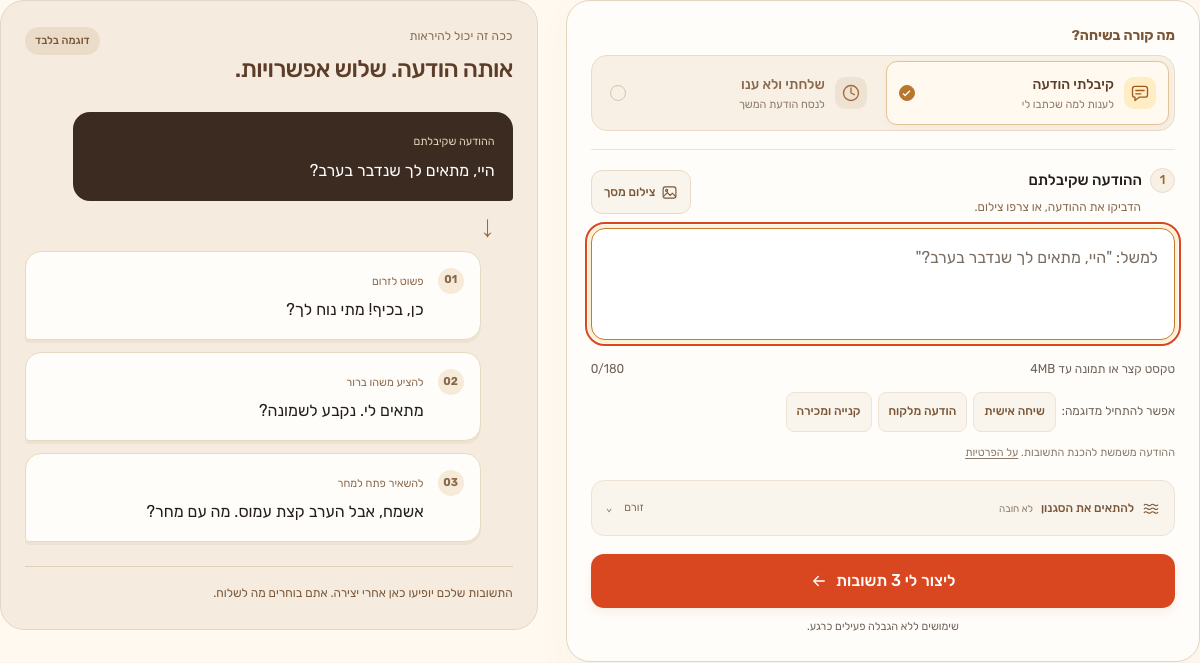
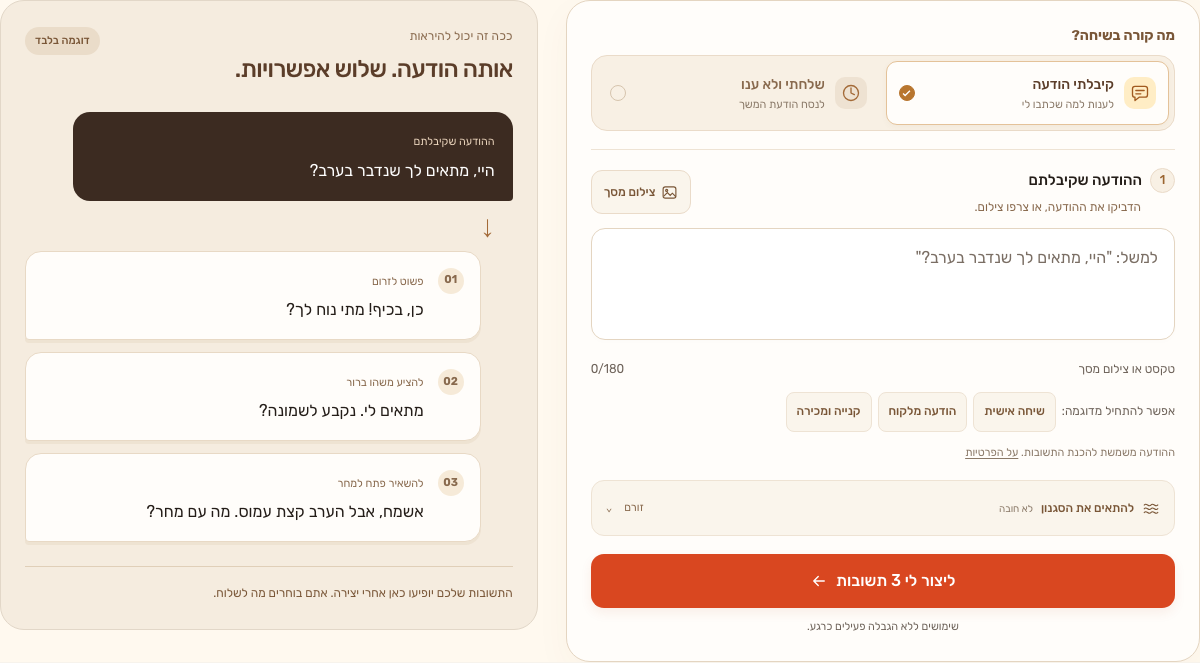
Automatically compress heavy screenshot uploads before generation

Changed region(s): [[0.4625, 0.3318, 0.9867, 0.5732]]

diff --git a/app/home-page-client.tsx b/app/home-page-client.tsx
@@ -16,6 +16,7 @@ import Image from 'next/image';
 import { AccountDialog, ConversationDemo, ConversationGuide, ConversationHeader } from '@/components/conversation-experience';
 import './conversation-experience.css';
 import { DurationIcon } from '@/components/duration-icon';
+import { prepareScreenshot } from '@/lib/prepare-screenshot';
 import {
   ConversationMemoryDialog,
   ManageConversationsDialog,
@@ -169,7 +170,6 @@ type CouponRedeemResponse = {
 
 const FREE_LIMIT = 3;
 const GENERATOR_FLOW_VERSION = 'direction_v3' as const;
-const MAX_IMAGE_UPLOAD_BYTES = 4 * 1024 * 1024;
 const MIN_LOADING_DISPLAY_MS = 200;
 const AUTH_EMAIL_STORAGE_KEY = 'sayback.auth.email';
 const AUTH_EMAIL_INTENT_STORAGE_KEY = 'sayback.auth.intent';
@@ -500,23 +500,6 @@ function getFocusableElements(container: HTMLElement | null) {
   });
 }
 
-function fileToBase64(file: File) {
-  return new Promise<string>((resolve, reject) => {
-    const reader = new FileReader();
-
-    reader.onload = () => {
-      if (typeof reader.result !== 'string') {
-        reject(new Error('טעינת התמונה נכשלה'));
-        return;
-      }
-
-      resolve(reader.result);
-    };
-
-    reader.onerror = () => reject(new Error('טעינת התמונה נכשלה'));
-    reader.readAsDataURL(file);
-  });
-}
 
 function isCompactViewport() {
   return window.matchMedia('(max-width: 1023px)').matches;
@@ -1997,6 +1980,7 @@ export default function Home({
   const [goal, setGoal] = useState<Goal | null>(null);
   const [continuePreference, setContinuePreference] = useState<ContinuePreference | null>(null);
   const [imageBase64, setImageBase64] = useState<string | null>(null);
+  const [isImageProcessing, setIsImageProcessing] = useState(false);
   const [imageName, setImageName] = useState<string | null>(null);
   const [imageError, setImageError] = useState<string | null>(null);
   const [showDeepLinkPrefillBanner, setShowDeepLinkPrefillBanner] = useState(false);
@@ -2101,7 +2085,9 @@ export default function Home({
   )?.label ?? `${noReplyDurationValue} ${selectedDurationUnitLabel}`;
   const isNoReplyReady =
     Boolean(trimmedLastOutgoingMessage) && hasValidNoReplyDuration && hasNoReplyDurationUnit;
-  const generateButtonLabel = isLoading
+  const generateButtonLabel = isImageProcessing && !isNoReplyMode
+    ? 'מכינים את התמונה…'
+    : isLoading
     ? 'מכינים 3 תשובות...'
     : isNoReplyMode
       ? 'ליצור לי 3 הודעות המשך'
@@ -2215,10 +2201,12 @@ export default function Home({
       return;
     }
 
+    imageRequests.invalidate();
+    setIsImageProcessing(false);
     setImageBase64(null);
     setImageName(null);
     setImageError(null);
-  }, [composeMode]);
+  }, [composeMode, imageRequests]);
 
   useEffect(() => {
     if (!isSessionReady || isBillingLoading || hasTrackedQuotaBadgeViewRef.current) {
@@ -4115,7 +4103,7 @@ export default function Home({
   }
 
   async function handleMainSubmit() {
-    if (isGenerating) return;
+    if (isGenerating || (isImageProcessing && !isNoReplyMode)) return;
     const draft = getDraftRequest();
     const trimmedMessage = draft.message;
     const trimmedLastOutgoingMessage = draft.lastOutgoingMessage ?? '';
@@ -4224,6 +4212,7 @@ export default function Home({
     }
 
     const request = imageRequests.begin();
+    setIsImageProcessing(false);
 
     if (!file.type.startsWith('image/')) {
       setImageError('אפשר להעלות רק קובצי תמונה.');
@@ -4233,16 +4222,13 @@ export default function Home({
       return;
     }
 
-    if (file.size > MAX_IMAGE_UPLOAD_BYTES) {
-      setImageError('התמונה גדולה מדי. אפשר להעלות עד 4MB.');
-      setImageBase64(null);
-      setImageName(null);
-      event.target.value = '';
-      return;
-    }
+    setIsImageProcessing(true);
+    setImageBase64(null);
+    setImageName(null);
+    setImageError(null);
 
     try {
-      const nextImageBase64 = await fileToBase64(file);
+      const nextImageBase64 = await prepareScreenshot(file, request.signal);
       if (!request.isCurrent()) return;
       setImageBase64(nextImageBase64);
       setImageName(file.name);
@@ -4257,11 +4243,14 @@ export default function Home({
       setImageError(error instanceof Error ? error.message : 'טעינת התמונה נכשלה');
       setImageBase64(null);
       setImageName(null);
+    } finally {
+      if (request.isCurrent()) setIsImageProcessing(false);
     }
   }
 
   function clearImage() {
     imageRequests.invalidate();
+    setIsImageProcessing(false);
     setImageBase64(null);
     setImageName(null);
     setImageError(null);
@@ -4955,7 +4944,7 @@ export default function Home({
                     className={`sb-message-input min-h-28 w-full resize-none rounded-[22px] rounded-bl-[14px] border border-[#ded2c3] bg-white px-4 py-3 text-base leading-7 font-medium text-[#241d18] outline-none transition placeholder:text-[#9b8f83] focus:bg-[#fffdfa] sm:min-h-40 sm:py-4 ${lightSurfaceFocusClass}`}
                   />
                   <div className="sb-input-footer" id="incoming-message-help">
-                    <span>טקסט קצר או תמונה עד 4MB</span>
+                    <span>טקסט או צילום מסך</span>
                     <span dir="ltr">{messageLength}/{MAX_INCOMING_MESSAGE_LENGTH}</span>
                   </div>
                   {!message.trim() && !imageBase64 ? (
@@ -4975,6 +4964,7 @@ export default function Home({
                     className="hidden"
                   />
 
+                  {isImageProcessing ? <p className="sb-status" role="status">מכינים את התמונה… <button type="button" onClick={clearImage} className="min-h-11 px-2 underline underline-offset-2">ביטול</button></p> : null}
                   {imageName && imageBase64 ? (
                     <div className="flex items-center gap-3 rounded-xl border border-[#ded2c3] p-3">
                       <Image src={imageBase64} alt="תצוגה מקדימה של צילום המסך" width={72} height={88} unoptimized className="h-22 w-18 shrink-0 rounded-lg object-contain" />
@@ -5053,7 +5043,7 @@ export default function Home({
                 <button
                   type="button"
                   onClick={handleMainSubmit}
-                  disabled={isGenerating}
+                  disabled={isGenerating || (isImageProcessing && !isNoReplyMode)}
                   data-incomplete={(isNoReplyMode && !isNoReplyReady) || undefined}
                   className={`sb-primary-button inline-flex min-h-[56px] w-full items-center justify-center gap-2 rounded-full bg-[#ff5a2a] px-5 py-3 text-base font-semibold text-white shadow-[0_14px_26px_rgba(255,90,42,0.24)] transition duration-150 hover:bg-[#f04d1f] active:translate-y-0 disabled:cursor-not-allowed disabled:opacity-60 ${lightSurfaceFocusClass}`}
                 >

diff --git a/lib/prepare-screenshot.ts b/lib/prepare-screenshot.ts
@@ -1,0 +1,108 @@
+/** Leave room for JSON below the hosting platform's request-body limit. */
+export const MAX_SCREENSHOT_DATA_URL_LENGTH = 4 * 1024 * 1024;
+const MAX_ENCODED_BYTES = Math.floor((MAX_SCREENSHOT_DATA_URL_LENGTH - 64) * 3 / 4);
+const MAX_CANVAS_PIXELS = 8_000_000;
+const MAX_CANVAS_EDGE = 8192;
+const SUPPORTED_TYPES = new Set(['image/jpeg', 'image/png', 'image/webp']);
+
+class ScreenshotPreparationError extends Error {}
+
+function checkCancelled(signal?: AbortSignal) {
+  if (signal?.aborted) throw new DOMException('Image processing cancelled', 'AbortError');
+}
+
+function readDataUrl(blob: Blob, signal?: AbortSignal): Promise<string> {
+  checkCancelled(signal);
+  return new Promise((resolve, reject) => {
+    const reader = new FileReader();
+    const abort = () => reader.abort();
+    const cleanup = () => signal?.removeEventListener('abort', abort);
+    signal?.addEventListener('abort', abort, { once: true });
+    reader.onload = () => {
+      cleanup();
+      if (typeof reader.result === 'string') resolve(reader.result);
+      else reject(new ScreenshotPreparationError('לא הצלחנו להכין את התמונה. נסו שוב.'));
+    };
+    reader.onerror = () => { cleanup(); reject(new ScreenshotPreparationError('לא הצלחנו לקרוא את התמונה. נסו צילום אחר.')); };
+    reader.onabort = () => { cleanup(); reject(new DOMException('Image processing cancelled', 'AbortError')); };
+    reader.readAsDataURL(blob);
+  });
+}
+
+async function decodeImage(file: File, signal?: AbortSignal): Promise<HTMLImageElement> {
+  checkCancelled(signal);
+  const url = URL.createObjectURL(file);
+  try {
+    return await new Promise((resolve, reject) => {
+      const image = new Image();
+      const cleanup = () => { image.onload = null; image.onerror = null; signal?.removeEventListener('abort', abort); };
+      const abort = () => { cleanup(); image.src = ''; reject(new DOMException('Image processing cancelled', 'AbortError')); };
+      image.onload = () => {
+        cleanup();
+        if (image.naturalWidth && image.naturalHeight) resolve(image);
+        else reject(new ScreenshotPreparationError('התמונה לא נפתחה. נסו צילום אחר.'));
+      };
+      image.onerror = () => { cleanup(); reject(new ScreenshotPreparationError('לא הצלחנו לפתוח את התמונה. נסו לשמור אותה כצילום מסך.')); };
+      signal?.addEventListener('abort', abort, { once: true });
+      image.src = url;
+    });
+  } finally {
+    URL.revokeObjectURL(url);
+  }
+}
+
+async function prepareScreenshotImage(file: File, signal?: AbortSignal): Promise<string> {
+  checkCancelled(signal);
+  if (!file.type.startsWith('image/')) throw new ScreenshotPreparationError('אפשר להעלות רק קובצי תמונה.');
+  // Preserve small supported originals, especially crisp PNG text.
+  if (SUPPORTED_TYPES.has(file.type) && file.size <= MAX_ENCODED_BYTES) {
+    return readDataUrl(file, signal);
+  }
+
+  const image = await decodeImage(file, signal);
+  const canvas = document.createElement('canvas');
+  try {
+    checkCancelled(signal);
+    const context = canvas.getContext('2d');
+    if (!context) throw new ScreenshotPreparationError('לא הצלחנו להכין את התמונה בדפדפן. נסו שוב.');
+    const scale = Math.min(1, MAX_CANVAS_EDGE / Math.max(image.naturalWidth, image.naturalHeight), Math.sqrt(MAX_CANVAS_PIXELS / (image.naturalWidth * image.naturalHeight)));
+    let width = Math.max(1, Math.floor(image.naturalWidth * scale));
+    let height = Math.max(1, Math.floor(image.naturalHeight * scale));
+
+    for (;;) {
+      checkCancelled(signal);
+      canvas.width = width;
+      canvas.height = height;
+      context.imageSmoothingEnabled = true;
+      context.imageSmoothingQuality = 'high';
+      context.fillStyle = '#fff';
+      context.fillRect(0, 0, width, height);
+      context.drawImage(image, 0, 0, width, height);
+      for (const quality of [0.9, 0.78, 0.64, 0.5]) {
+        checkCancelled(signal);
+        const blob = await new Promise<Blob>((resolve, reject) => {
+          canvas.toBlob((result) => result ? resolve(result) : reject(new ScreenshotPreparationError('לא הצלחנו לצמצם את התמונה. נסו צילום אחר.')), 'image/jpeg', quality);
+        });
+        checkCancelled(signal);
+        if (blob.size <= MAX_ENCODED_BYTES) return await readDataUrl(blob, signal);
+      }
+      if (width === 1 && height === 1) throw new ScreenshotPreparationError('לא הצלחנו להכין את התמונה. נסו צילום אחר.');
+      width = Math.max(1, Math.floor(width * 0.75));
+      height = Math.max(1, Math.floor(height * 0.75));
+    }
+  } finally {
+    // Release the canvas backing store promptly on phones, including cancellation.
+    canvas.width = 0;
+    canvas.height = 0;
+    image.src = '';
+  }
+}
+
+export async function prepareScreenshot(file: File, signal?: AbortSignal): Promise<string> {
+  try {
+    return await prepareScreenshotImage(file, signal);
+  } catch (error) {
+    if (error instanceof ScreenshotPreparationError || (error instanceof DOMException && error.name === 'AbortError')) throw error;
+    throw new ScreenshotPreparationError('לא הצלחנו להכין את התמונה. נסו צילום אחר.');
+  }
+}

diff --git a/components/conversation-experience.tsx b/components/conversation-experience.tsx
@@ -126,7 +126,7 @@ export function ConversationGuide({ billingBypassEnabled = false }: { billingByp
         </details>
         <details>
           <summary>אפשר לצרף צילום מסך?</summary>
-          <p>כן. אפשר לבחור צילום מסך של השיחה במקום להקליד את ההודעה. גודל התמונה צריך להיות עד 4MB. כדאי לבדוק שהטקסט ברור ושהצילום כולל את ההודעה שרוצים לענות עליה.</p>
+          <p>כן. אפשר לבחור צילום מסך של השיחה במקום להקליד את ההודעה. תמונות כבדות מצטמצמות אוטומטית לפני השליחה. כדאי לבדוק שהטקסט ברור ושהצילום כולל את ההודעה שרוצים לענות עליה.</p>
         </details>
         <details>
           <summary>כמה שימושים מקבלים?</summary>

diff --git a/README.md b/README.md
@@ -34,6 +34,7 @@ SayBack is a live, Hebrew-first web app for personal conversations, customer mes
 - **Get Hebrew phrasing right.** Choose how replies refer to you and the recipient. Your own grammatical preference is remembered in this browser; the recipient's is temporary.
 - **Refine without starting over.** Soften, sharpen, regenerate, or supply a custom rewriting instruction. Editing the incoming request marks older results as outdated.
 - **Follow up when there is no answer.** Switch to **שלחתי ולא ענו**, add your last outgoing message, and choose how much time has passed, including a custom duration.
+- **Upload without file-size decisions.** Heavy images are compressed in the browser before sending; small supported PNG/JPEG/WebP originals stay unchanged. Encoding quality and dimensions adjust only as needed. Upload processing can be cancelled or replaced, and the old attachment cannot be submitted while a new one is being prepared.
 - **Use it on a phone.** RTL layout, a growing text field, compact controls, and scrollable dialogs keep the interaction focused.
 - **Keep account actions together.** The account dialog brings access status, email-link recovery, saved people, and available billing actions into one place.
 
@@ -53,7 +54,7 @@ Incoming replies and follow-ups share a compact header, numbered input, warm cre
 
 Clicking an incomplete request focuses and reveals the first missing field with one short inline hint. Correcting the field clears the hint. During phone editing, the follow-up action remains visible and supporting content is reduced. Reduced-motion preferences are respected.
 
-Verified locally in Chromium at 320–1440px with synthetic services, including photo input, optional preferences, generation and a reduced-height 320/390×400 editing simulation. Lint, TypeScript, 175 regression tests and production build passed. Physical phone keyboards, live AI and real payments were not verified. [Detailed visual verification](docs/design-verification.md).
+Verified locally in Chromium at 320–1440px with synthetic services, including photo input, optional preferences, generation and a reduced-height 320/390×400 editing simulation. Lint, TypeScript, 176 regression tests and production build passed. Physical phone keyboards, live AI and real payments were not verified. [Detailed visual verification](docs/design-verification.md).
 
 **Availability is configuration-dependent.** The repository includes free-use limits, credit packs, subscriptions, coupons, and an open-access mode. The live site's current access policy may differ from a screenshot or local setup. Screenshot understanding requires the configured OpenAI mode; the local rule-based mode does not read images.
 

diff --git a/docs/design-verification.md b/docs/design-verification.md
@@ -62,3 +62,9 @@ A two-choice picker replaces the one-way mode links. Both options remain visible
 ## Keyboard-only focus rings
 
 The composer records pointer versus navigation-key input without moving or blurring focus. Pointer input suppresses focus outlines and Tailwind rings, including when clicking the same control after keyboard navigation; navigation keys restore the normal `:focus-visible` styles. Duration radio labels follow the same rule. Selection styles remain intact. Chromium checks at 390 and 849px cover mouse, Tab/Shift+Tab, mouse-after-keyboard, a touch pointer event, retained focus/selection, and text spaces not re-enabling navigation rings. Touch was simulated; no physical phone test was performed.
+
+## Automatic screenshot compression
+
+Removed the visible file-size copy and source-size rejection. A generated 14,725,370-byte PNG was compressed by the real browser encoder to a 3,533,627-character JPEG data URL (budget: 4,194,304), preserving 2200×2200 dimensions. The text header was inspected visually. Small PNG bytes were preserved; pre-start and in-flight aborts and corrupt/non-image failures were checked. `scripts/verify-image-compression.mjs` reproduces these codec checks offline.
+
+The actual 390px upload UI was also checked with a valid image larger than 4 MiB: busy submit guard, compressed generation payload, cancellation, replacement race, mode-change abort and no stale preview. Generation/billing were synthetic; no live AI was called. Lint, TypeScript, 176 regression tests and production build are the release gates. Physical-device memory limits and browser-unsupported image formats are not guaranteed by these desktop Chromium checks.

diff --git a/docs/development.md b/docs/development.md
@@ -186,3 +186,11 @@ After running the browser suite, inspect and copy these populated fixture captur
 
 Keep the [walkthrough provenance](walkthrough.md) accurate when replacing images.
 These captures mock services and must not be described as live generated output.
+
+## Screenshot preparation
+
+`lib/prepare-screenshot.ts` prepares uploads locally. There is no source-file byte-size rejection. Supported small PNG/JPEG/WebP files are preserved; larger files and other browser-decodable image formats are converted to JPEG on a white background. The encoder tries descending quality before reducing dimensions further. Re-encoding is bounded to 8 million canvas pixels and an 8192px edge. Output data URLs remain below 4 MiB, including base64 expansion, leaving room for the JSON envelope. Corrupt or browser-unsupported files still produce a Hebrew error.
+
+The current upload owns an abort signal. Clearing, replacing or switching to follow-up invalidates processing; generation waits for image preparation. UI fields do not display a file-size limit. No image contents are written to persistent client storage by this helper.
+
+Run `node scripts/verify-image-compression.mjs` with Playwright available, or point `SAYBACK_PLAYWRIGHT_MODULE` to its existing `index.mjs`. It uses an offline browser and a generated oversized fixture to exercise the real canvas encoder, encoded budget, small PNG preservation and cancellation. Artifacts go to `output/playwright/`. This does not test a live AI provider.
